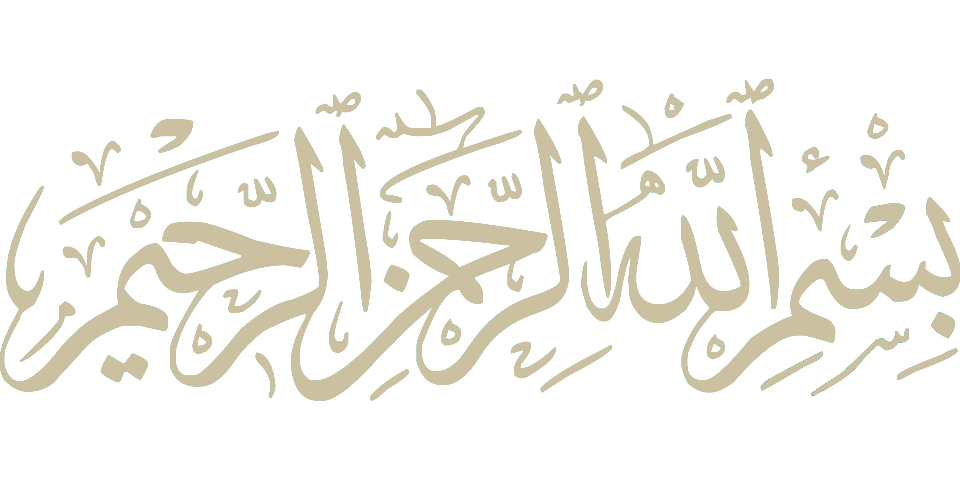
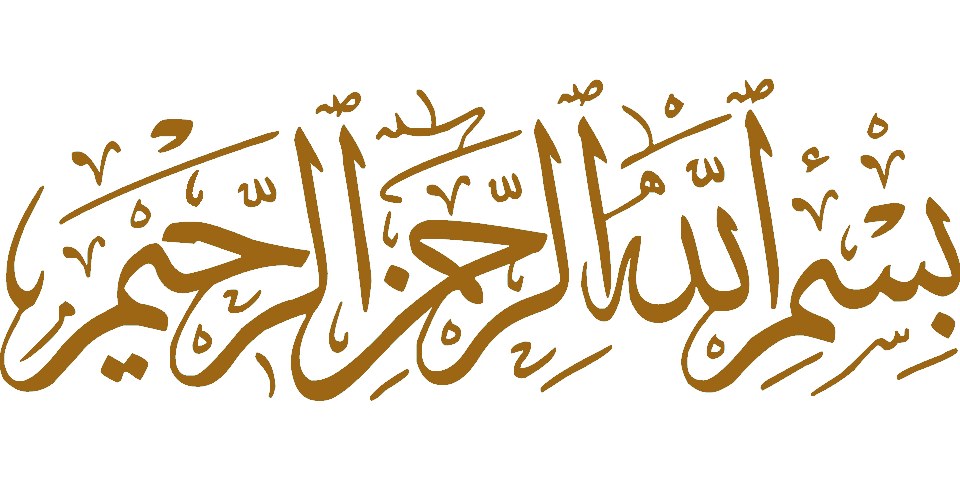
text label

diff --git a/src/Component/Cover/Cover.css b/src/Component/Cover/Cover.css
@@ -54,12 +54,12 @@
 }
 @media only screen and (min-height: 1520px) and (max-height:1520px) {
     .labelnpl{
-        color: #CBC1A1;
+        color: #9C6615;
         font-family: 'playlist';
         font-size: 30px;
     }
     .labelnpw{
-        color: #CBC1A1;
+        color: #9C6615;
         font-family: 'playlist';
         font-size: 35px;
     }
@@ -157,18 +157,18 @@
     color:#545454;
 }
 .labelnpl{
-    color: #CBC1A1;
+    color: #9C6615;
     font-family: 'playlist';
     font-size: 35px;
 }
 .labelnpw{
-    color: #CBC1A1;
+    color: #9C6615;
     font-family: 'playlist';
     font-size: 40px;
 }
 .labeland{
 
-    color: #CBC1A1;
+    color: #9C6615;
     font-family: 'playlist';
     font-size: 40px;
 }
@@ -267,18 +267,18 @@
         color:#545454;
     }
     .labelnpl{
-        color: #CBC1A1;
+        color: #9C6615;
         font-family: 'playlist';
         font-size: 30px;
     }
     .labelnpw{
-        color: #CBC1A1;
+        color: #9C6615;
         font-family: 'playlist';
         font-size: 30px;
     }
     .labeland{
     
-        color: #CBC1A1;
+        color: #9C6615;
         font-family: 'playlist';
         font-size: 40px;
     }
@@ -368,18 +368,18 @@
         color:#545454;
     }
     .labelnpl{
-        color: #CBC1A1;
+        color: #9C6615;
         font-family: 'playlist';
         font-size: 30px;
     }
     .labelnpw{
-        color: #CBC1A1;
+        color: #9C6615;
         font-family: 'playlist';
         font-size: 30px;
     }
     .labeland{
     
-        color: #CBC1A1;
+        color: #9C6615;
         font-family: 'playlist';
         font-size: 40px;
     }
@@ -454,18 +454,18 @@
         color:#545454;
     }
     .labelnpl{
-        color: #CBC1A1;
+        color: #9C6615;
         font-family: 'playlist';
         font-size: 30px;
     }
     .labelnpw{
-        color: #CBC1A1;
+        color: #9C6615;
         font-family: 'playlist';
         font-size: 30px;
     }
     .labeland{
     
-        color: #CBC1A1;
+        color: #9C6615;
         font-family: 'playlist';
         font-size: 40px;
     }
@@ -540,18 +540,18 @@
         color:#545454;
     }
     .labelnpl{
-        color: #CBC1A1;
+        color: #9C6615;
         font-family: 'playlist';
         font-size: 30px;
     }
     .labelnpw{
-        color: #CBC1A1;
+        color: #9C6615;
         font-family: 'playlist';
         font-size: 30px;
     }
     .labeland{
     
-        color: #CBC1A1;
+        color: #9C6615;
         font-family: 'playlist';
         font-size: 40px;
     }
@@ -626,18 +626,18 @@
         color:#545454;
     }
     .labelnpl{
-        color: #CBC1A1;
+        color: #9C6615;
         font-family: 'playlist';
         font-size: 25px;
     }
     .labelnpw{
-        color: #CBC1A1;
+        color: #9C6615;
         font-family: 'playlist';
         font-size: 30px;
     }
     .labeland{
     
-        color: #CBC1A1;
+        color: #9C6615;
         font-family: 'playlist';
         font-size: 40px;
     }

diff --git a/src/Component/Couple/Couple.css b/src/Component/Couple/Couple.css
@@ -65,7 +65,7 @@
 }
 .txtudg{
     font-size: 14px;
-    color: #CBC1A1;
+    color: #9C6615;
 }
 .htopbpk{
     height: auto;
@@ -110,20 +110,20 @@
 .txtw{
     font-size: 13px;
     margin-left: 27%;
-    color:#CBC1A1 ;
+    color:#9C6615 ;
 }
 .txtbpk{
     font-size: 14px;
-    color: #CBC1A1;
+    color: #9C6615;
 }
 .txtas{
-    color: #CBC1A1;
+    color: #9C6615;
 }
 .txtudg{
-    color: #CBC1A1;
+    color:#9C6615;
 }
 .txtb{
-    color: #CBC1A1;
+    color: #9C6615;
 }
 .htopb{
     height: auto;
@@ -153,8 +153,7 @@
     top: 40%;
     border-radius: 50%;
     overflow: hidden;
-    background-color: red;
-    border:3px solid #CBC1A1;
+    border:3px solid #9C6615;
 }
 .imgw{
     height: 100%;
@@ -174,6 +173,7 @@
 .txtwbpk{
     font-size: 11px;
     margin-left: 27%;
+    color: #9C6615;
 }
 .htopwptk{
     position: absolute;
@@ -188,6 +188,7 @@
 .txtptk{
     font-size: 11px;
     margin-left: 27%;
+    color: #9C6615;
 }
 .htopwibu{
     position: absolute;
@@ -202,4 +203,5 @@
 .txtwibu{
     font-size: 11px;
     margin-left: 27%;
+    color: #9C6615;
 }
